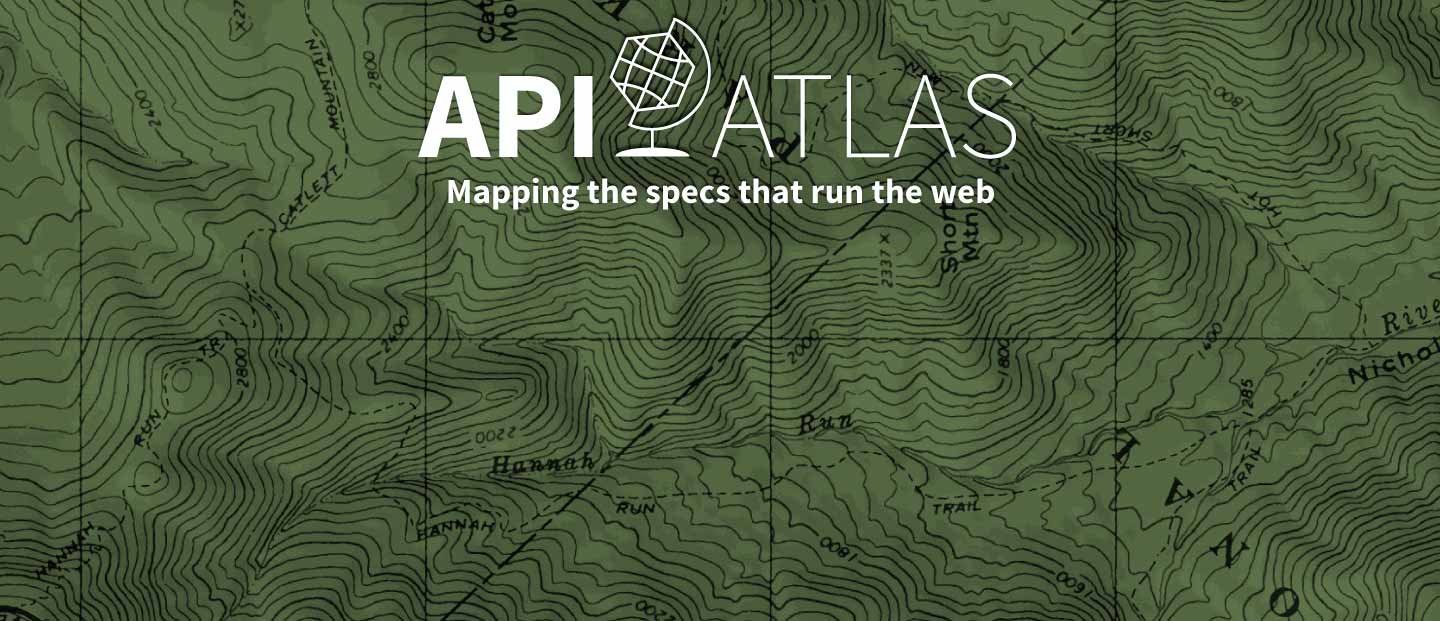
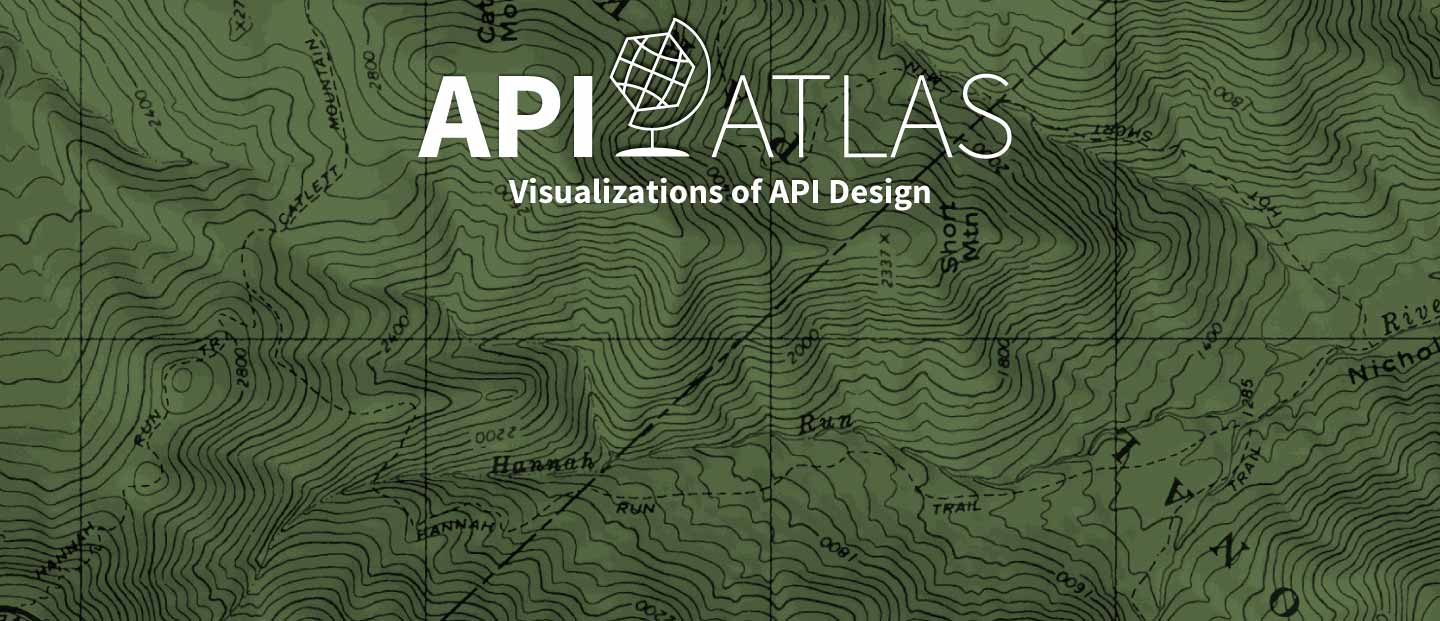
Latest copy and style tweaks

Changed region(s): [[0.3125, 0.1224, 0.7188, 0.3366], [0.5, 0.1224, 0.5312, 0.2142]]

diff --git a/public/css/styles.css b/public/css/styles.css
@@ -14,9 +14,8 @@ a.pure-button-primary{background-color:#286595 !important;color:#fff}
 #edit input{font-size:1.4em}
 #edit textarea{font-size:1em;min-height:10em}
 #edit .form_controls{margin-top:1em}#edit .form_controls button,#edit .form_controls a{margin-right:1em}
-#header{background:#465639 url('../images/map_header.jpg')}#header img{padding:5%;width:90%;max-width:334px}
-#header .pure-menu{background-color:transparent}#header .pure-menu .pure-menu-heading{padding:5px 10px 10px 10px}#header .pure-menu .pure-menu-heading img{padding:none}
-#header .pure-menu li a{background-color:#eee}#header .pure-menu li a:hover{background-color:#fff}
+#header{background:#465639 url('../images/map_header.jpg')}#header img{padding:5% 5% 5% 0;width:90%;max-width:334px}
+#header .content{margin:0}
 #header .pure-u-1-3{text-align:right}
 #login-confirm .pure-button{margin-right:1em !important;margin-bottom:1em;font-size:1.2em}
 #login-confirm .pure-u-1-3{padding-top:.8em}
@@ -24,9 +23,10 @@ a.pure-button-primary{background-color:#286595 !important;color:#fff}
 .fineprint{font-size:.8em;color:#888}
 .modal-inner footer .pure-button{margin-top:1em}
 body.resource .voting_controls .vote{font-size:1.2em}
-.voting_controls{margin-top:.5em}.voting_controls .vote_meta{margin:0;padding:.25em 0 0 0;color:#939597;font-size:.8em;list-style-type:none;display:inline-block}.voting_controls .vote_meta li{display:inline;padding-left:1em}
-@media only screen and (max-width: 768px){.voting_controls .vote_meta{margin:.5em 0 0 0;padding:.25em 0;font-size:1em}.voting_controls .vote_meta li{padding-left:none}}
-.voting_controls .vote{font-size:.8em;color:#939597;cursor:pointer}@media only screen and (max-width: 768px){.voting_controls .vote{font-size:1.2em}}.voting_controls .vote.vote_up,.voting_controls .vote.vote_down{background-color:#eee}
+.voting_controls{margin-top:.5em}@media only screen and (max-width: 768px){.voting_controls{text-align:center}}.voting_controls .vote_meta{margin:0;padding:.25em 0 0 0;color:#939597;font-size:.8em;list-style-type:none;display:inline-block}.voting_controls .vote_meta li{display:inline;padding-left:1em;font-size:15px}.voting_controls .vote_meta li span,.voting_controls .vote_meta li a{font-size:15px !important}
+.voting_controls .vote_meta li a{color:#286595}.voting_controls .vote_meta li a:hover{text-decoration:none}
+@media only screen and (max-width: 768px){.voting_controls .vote_meta{margin:1em auto 0 auto;padding:.25em 0;font-size:1em;text-align:center;width:100%}.voting_controls .vote_meta li{padding:0 1em}}
+.voting_controls .vote{font-size:.8em;color:#939597;cursor:pointer}@media only screen and (max-width: 768px){.voting_controls .vote{font-size:1.2em}}.voting_controls .vote.vote_up,.voting_controls .vote.vote_down{background-color:#eee}@media only screen and (max-width: 768px){.voting_controls .vote.vote_up,.voting_controls .vote.vote_down{width:38%;margin:2%;padding:2%}}
 .voting_controls .vote.vote_down:hover{background:-moz-linear-gradient(bottom, #e09ba2 0%, #7b3018 100%);background:-webkit-gradient(linear, left bottom, left top, color-stop(0%, #e09ba2), color-stop(100%, #7b3018));background:-ms-linear-gradient(bottom, #e09ba2 0%, #7b3018 10%);background:linear-gradient(180deg, #e09ba2 0%, #7b3018 100%);color:#fff}
 .voting_controls .vote.vote_up:hover{background:-moz-linear-gradient(bottom, #c1dfa6 0%, #5c7048 100%);background:-webkit-gradient(linear, left bottom, left top, color-stop(0%, #c1dfa6), color-stop(100%, #5c7048));background:-ms-linear-gradient(bottom, #c1dfa6 0%, #5c7048 10%);background:linear-gradient(180deg, #c1dfa6 0%, #5c7048 100%);color:#fff}
 .voting_controls .vote a{color:white}
@@ -56,9 +56,10 @@ body.resource .resource_show.color_yellow{color:#7e5220}
 body.resource .resource_show.resource_header .controls.vote_true .clarify_group{display:block}
 body.resource .resource_show .scrub{margin-top:1em}body.resource .resource_show .scrub a{margin-right:1em;margin-bottom:1em}
 body.resource .resource_show #comments{margin:2em 1em 0 0}
-body.resource .resource_show .pure-u-1-2{margin-top:1em}body.resource .resource_show .pure-u-1-2 h3{margin:0 1em 0 0}
-body.resource .resource_show .pure-u-1-2 p{padding:1em;border:1px solid #ccc;background-color:#eee;margin:.25em 1em 0 0}
-#footer{margin-top:1em;padding-top:1em;padding:2em 2em 10em 2em;background-color:rgba(0,0,0,0.5)}
+body.resource .resource_show .description,body.resource .resource_show .example{margin-top:1em}body.resource .resource_show .description h3,body.resource .resource_show .example h3{margin:0 1em 0 0}
+body.resource .resource_show .description p,body.resource .resource_show .example p{padding:1em;border:1px solid #ccc;background-color:#eee;margin:.25em 0em 0 0}
+.resource_show,#content,#header .content{max-width:1024px;margin-left:auto;margin-right:auto}
+#footer{margin-top:1em;padding-top:1em;padding:2em 2em 10em 2em;background-color:rgba(0,0,0,0.5)}#footer .pure-menu,#footer p{max-width:1024px;margin:.5em auto}
 .greenbar_100{background:-moz-linear-gradient(left, #c1dfa6 100%, #f0f7ea 100%);background:-webkit-gradient(linear, left top, right top, color-stop(100%, #c1dfa6), color-stop(100%, #f0f7ea));background:-ms-linear-gradient(left, #c1dfa6 100%, #f0f7ea 100%);background:linear-gradient(90deg, #c1dfa6 100%, #f0f7ea 100%);}
 .yellowbar_100{background:-moz-linear-gradient(left, #f1e190 100%, #fbf6e4 100%);background:-webkit-gradient(linear, left top, right top, color-stop(100%, #f1e190), color-stop(100%, #fbf6e4));background:-ms-linear-gradient(left, #f1e190 100%, #fbf6e4 100%);background:linear-gradient(90deg, #f1e190 100%, #fbf6e4 100%);}
 .bluebar_100{background:-moz-linear-gradient(left, #abcde9 100%, #dee9f7 100%);background:-webkit-gradient(linear, left top, right top, color-stop(100%, #abcde9), color-stop(100%, #dee9f7));background:-ms-linear-gradient(left, #abcde9 100%, #dee9f7 100%);background:linear-gradient(90deg, #abcde9 100%, #dee9f7 100%);}

diff --git a/public/css/styles.less b/public/css/styles.less
@@ -92,19 +92,10 @@ body,
 #header{
 	background: #465639 url('../images/map_header.jpg');
 	img{
-	   padding: 5%;
+	   padding: 5% 5% 5% 0;
        width: 90%; max-width: 334px;
     }
-	.pure-menu{
-		background-color: transparent;
-        .pure-menu-heading {
-            padding: 5px 10px 10px 10px;
-			img {padding: none;}
-            
-        }
-		li a {background-color: #eee; &:hover {background-color: #fff;}}
-		
-	}
+	.content {margin: 0;}
 	.pure-u-1-3 {text-align: right;}
 }
 #login-confirm {
@@ -138,22 +129,36 @@ body,
 }
 body.resource .voting_controls .vote {font-size: 1.2em; }
 .voting_controls {
+	@media @mobile { text-align: center;}
 	margin-top: .5em;
 	.vote_meta {
-		margin: 0; padding: .25em 0 0 0; color: @medium_gray; font-size: .8em;
+		margin: 0; 
+		padding: .25em 0 0 0; 
+		color: @medium_gray; 
+		font-size: .8em;
 		list-style-type: none;
 		display: inline-block;
 		li {
 			display: inline;
 			padding-left: 1em;
+			font-size: 15px;
+			span,a {
+				font-size: 15px !important;
+			}
+			a {
+				color: @blue-text;
+				&:hover {text-decoration: none;}
+			}
 		}
 		@media @mobile {
-			margin: .5em 0 0 0;
+			margin: 1em auto 0 auto;
 			padding: .25em 0;
 			font-size: 1em;
 			li {
-				padding-left: none;
+				padding: 0 1em;
 			}
+			text-align: center;
+			width: 100%;
 		}
 	}
 	
@@ -162,7 +167,14 @@ body.resource .voting_controls .vote {font-size: 1.2em; }
 		color: @medium_gray;
 		
 		@media @mobile {font-size: 1.2em; }
-		&.vote_up, &.vote_down {background-color: @light_gray;}
+		&.vote_up, &.vote_down {
+			background-color: @light_gray;
+			@media @mobile {
+				width: 38%;
+				margin: 2%;
+				padding: 2%;
+			}
+		}
 		&.vote_down {
 			&:hover {.button_grad(@red, @red-text); color: #fff;}
 			
@@ -175,6 +187,7 @@ body.resource .voting_controls .vote {font-size: 1.2em; }
 		a {
 			color: white;
 		}
+		
 	}
 	&.vote_yes, &.vote_true {
 		.vote_up {
@@ -371,17 +384,22 @@ body.resource {
         #comments {
             margin: 2em 1em 0 0;
         }
-        .pure-u-1-2 { 
+        .description, .example { 
             margin-top: 1em;
             h3 { margin: 0 1em 0 0; }
             p {
                 padding: 1em; 
                 border: 1px solid #ccc;
                 background-color: #eee;
-                margin: .25em 1em 0 0;
+                margin: .25em 0em 0 0;
             }
         }
     }
+}
+.resource_show, #content, #header .content {
+	max-width: 1024px;
+	margin-left: auto;
+	margin-right: auto;
 }
 #footer {
     margin-top: 1em;
@@ -389,6 +407,10 @@ body.resource {
     padding: 2em 2em 10em 2em;
     
 	background-color: rgba(0,0,0,.5);
+	.pure-menu, p {
+		max-width: 1024px;
+		margin: .5em auto;
+	}
 }
 
 //yes, this pre-renders a ton of css rules (300 progress bar backrounds * versions for prowser compatiability). 
